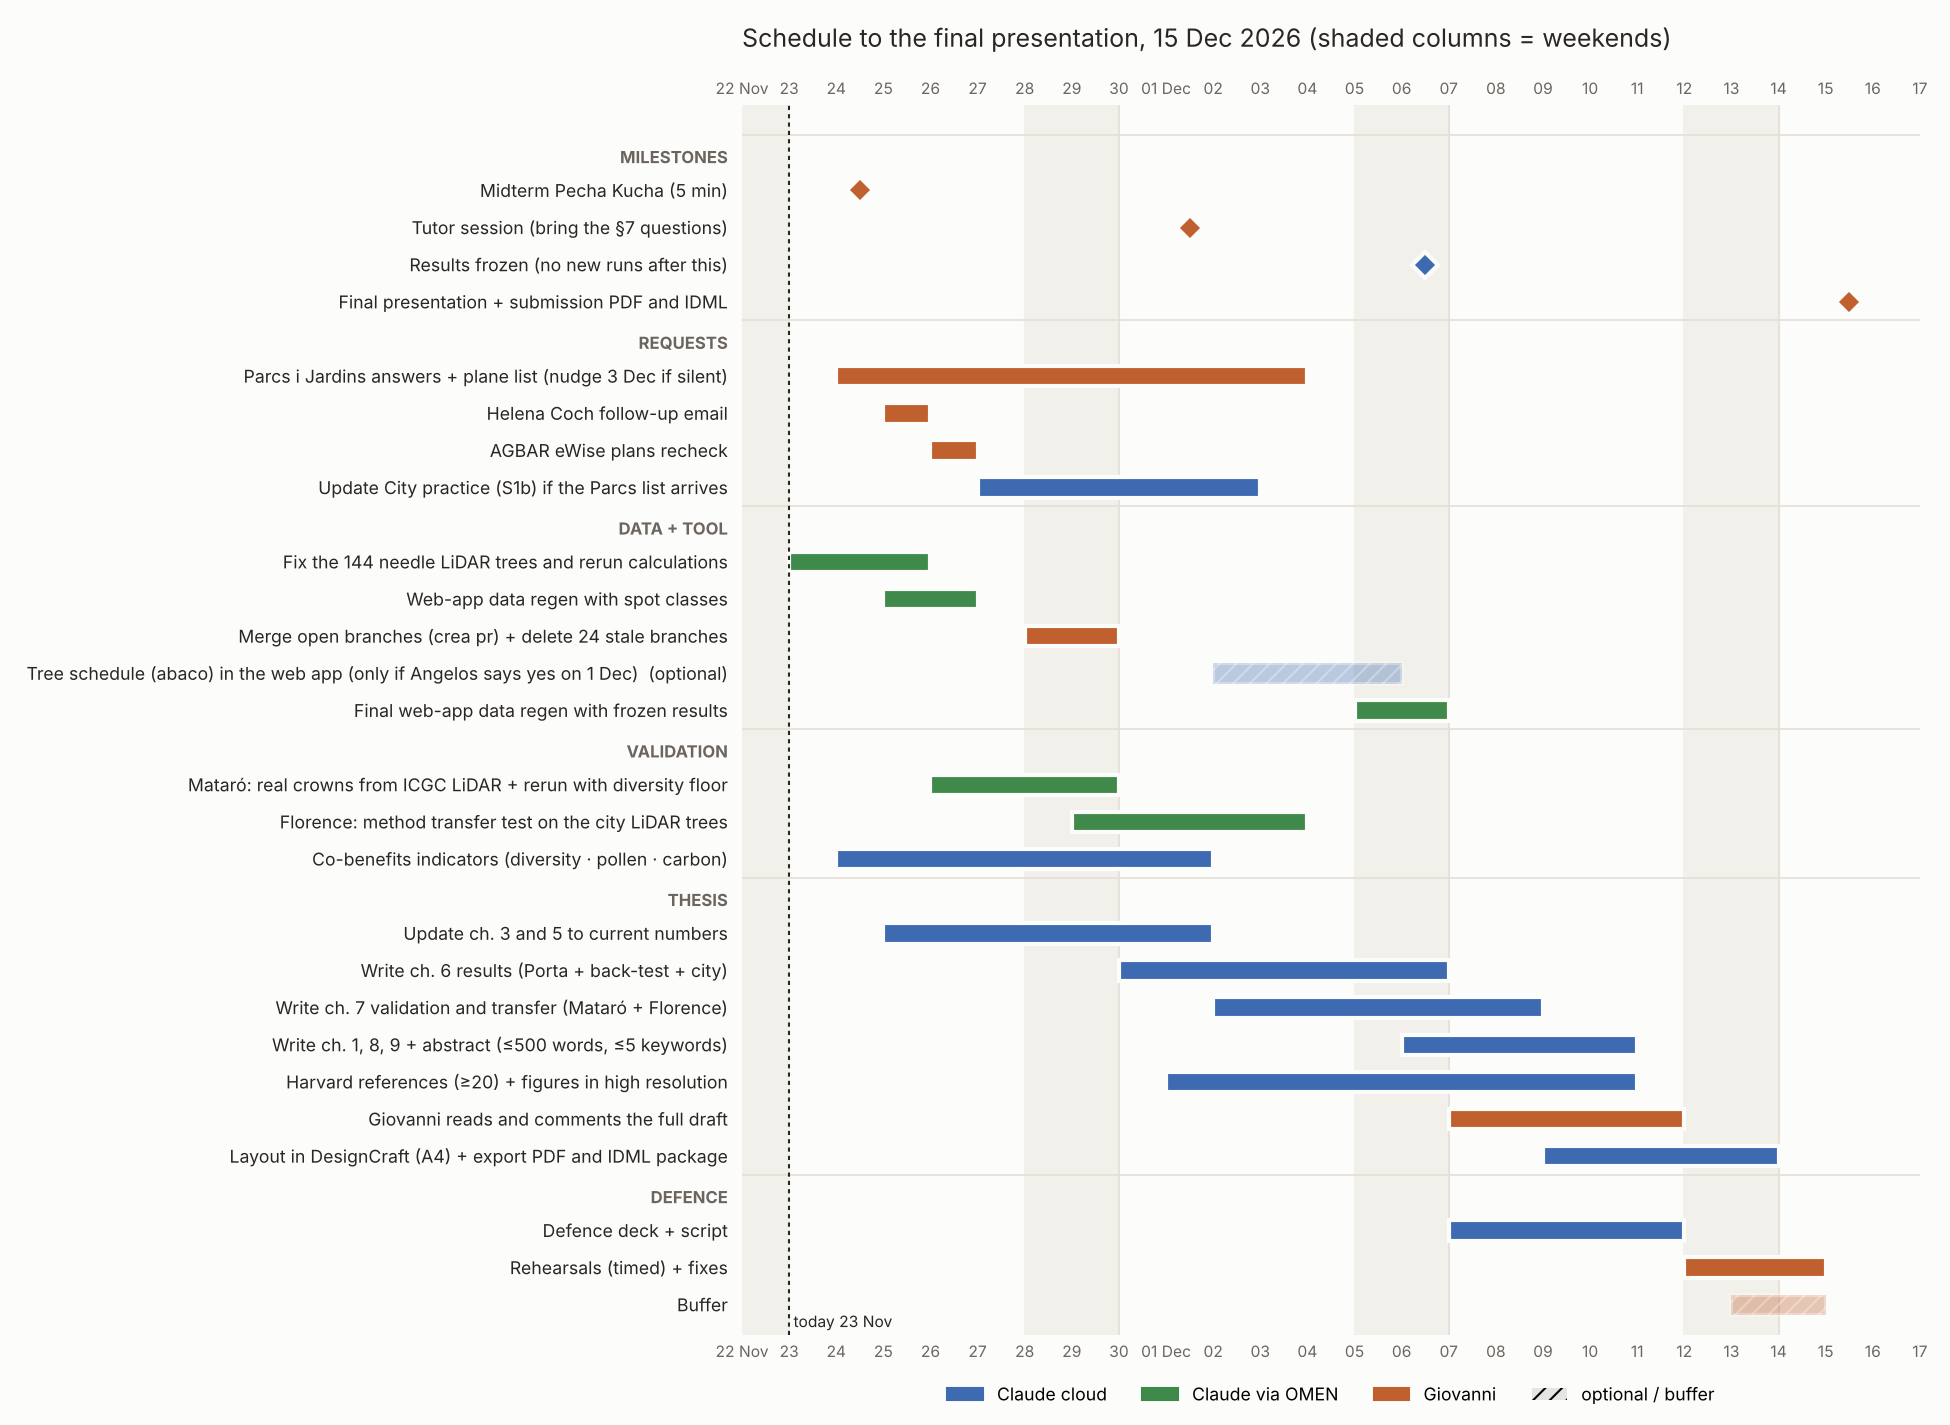
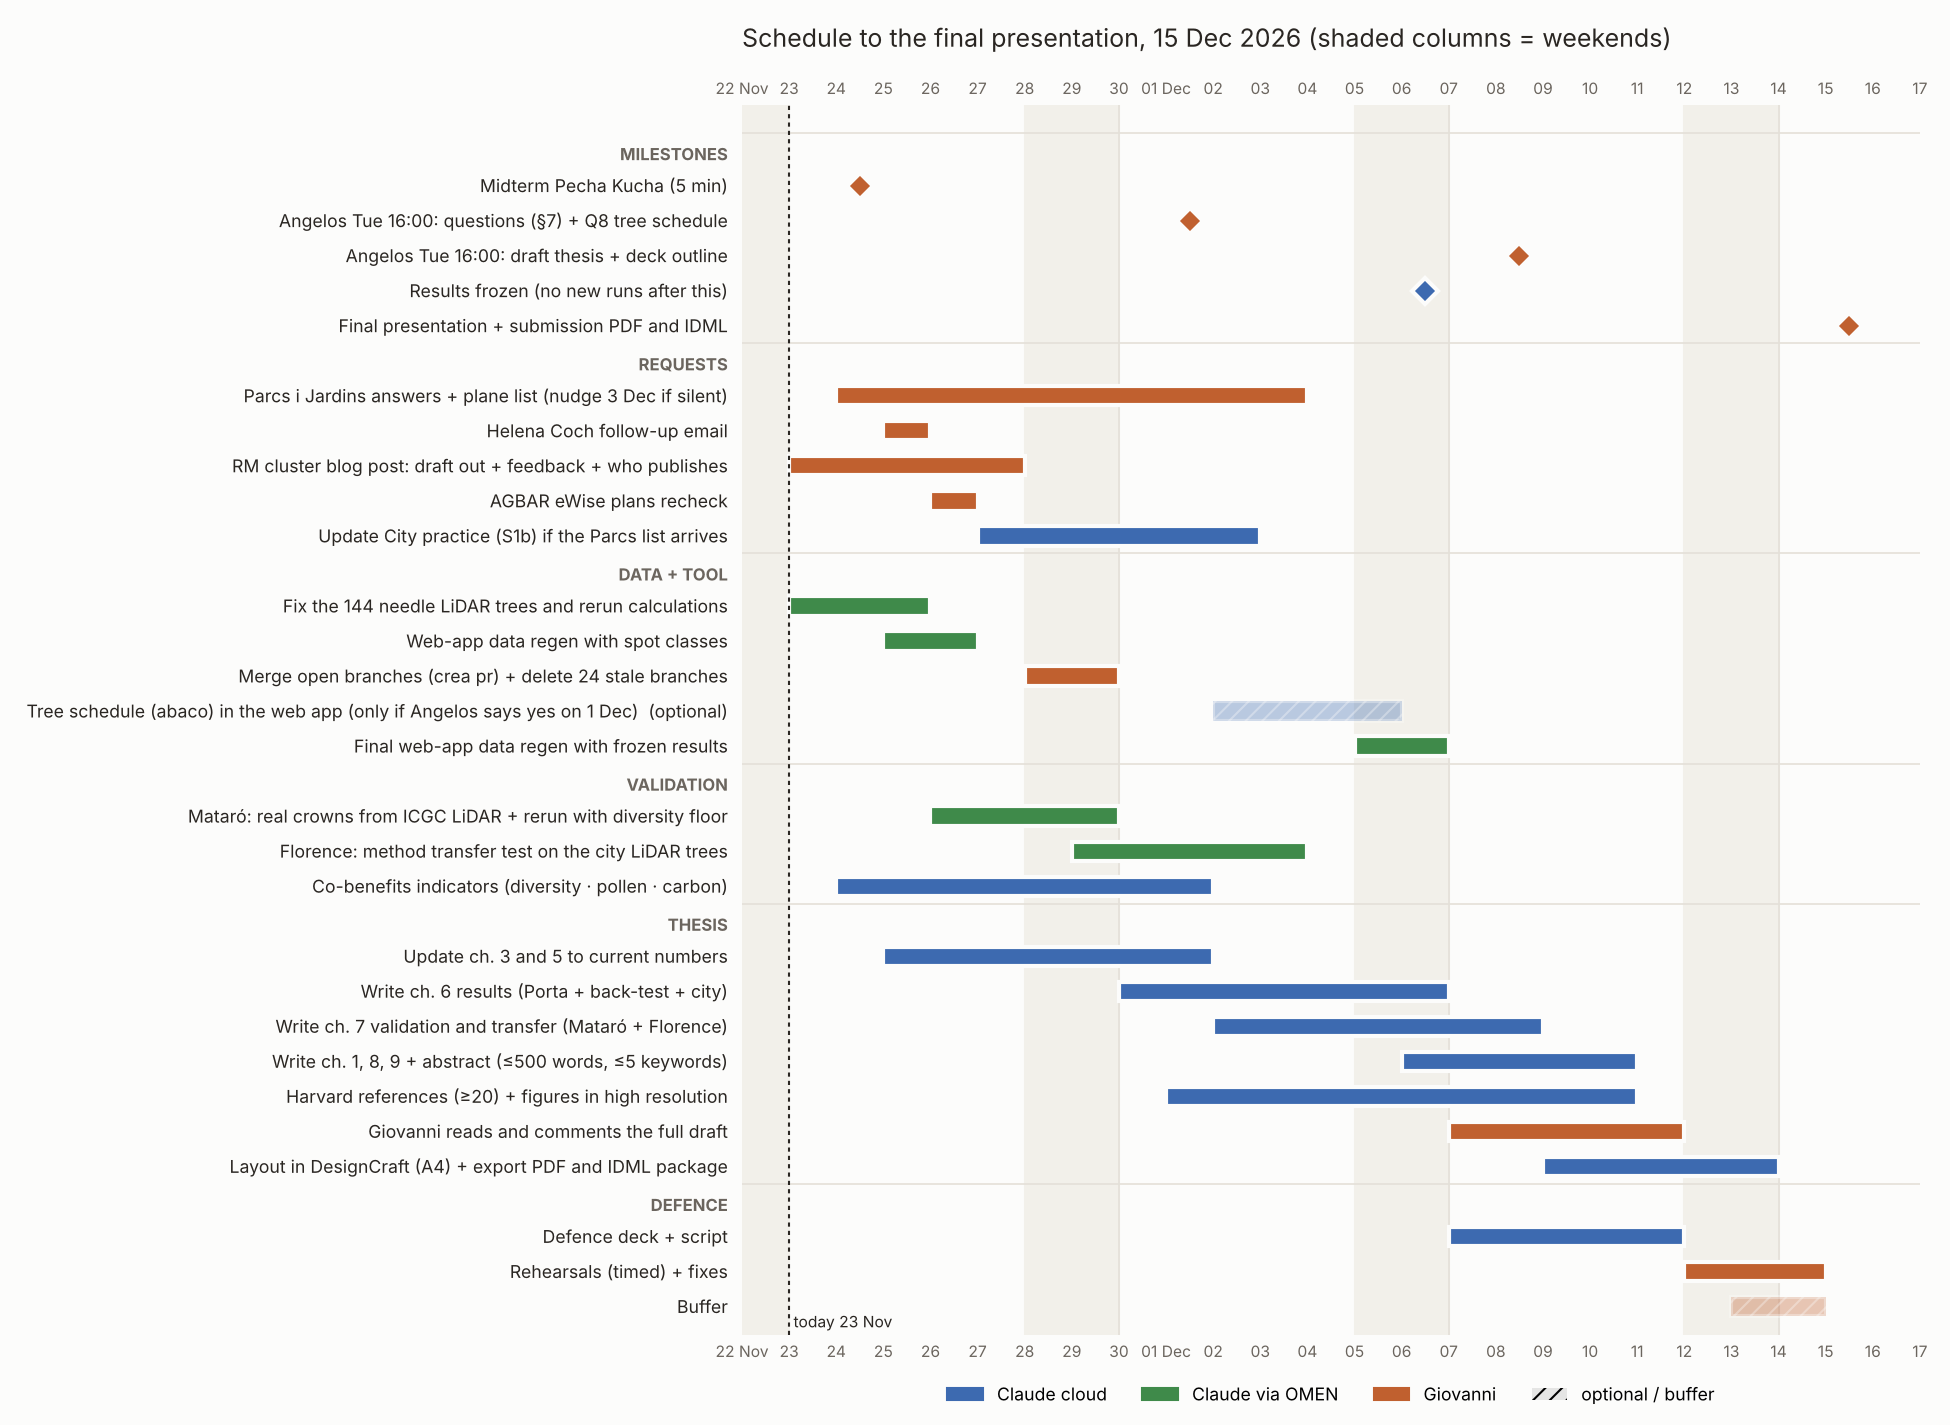
Schedule: Tuesday meetings with Angelos, RM blog post, 15 Dec only deadline
Claude-Session: https://claude.ai/code/session_01He8Hgo5W3x1j2SABPPMyEv

diff --git a/notes/schedule/schedule_to_15dec.md b/notes/schedule/schedule_to_15dec.md
@@ -2,12 +2,13 @@
 
 *Written 23 Nov. Source of truth: `schedule_to_15dec.csv` (edit it, then `python make_gantt.py schedule_to_15dec.csv gantt_to_15dec.png`). Gantt: `gantt_to_15dec.png`. Supersedes the week plan in `notes/roadmap_nov_dec.md`.*
 
-**Rules of the plan.** Giovanni's weekday mornings = one prompt each, results ready by 14:00. OMEN tasks need the PC on (afternoons/evenings). **Results frozen on Sun 6 Dec**: after that only writing, layout and deck. Thesis PDF + InDesign package (IDML, fonts, HR images) are submitted on 15 Dec, the day of the presentation.
+**Rules of the plan.** Giovanni's weekday mornings = one prompt each, results ready by 14:00. OMEN tasks need the PC on (afternoons/evenings). **Results frozen on Sun 6 Dec**: after that only writing, layout and deck. Thesis PDF + InDesign package (IDML, fonts, HR images) are submitted on 15 Dec, the day of the presentation: **the only fixed deadline** (RT and RM are closed). Angelos meets every **Tuesday at 16:00** (some may be skipped).
 
 ## Week 1 · 23–29 Nov · Midterm, data fixes, transfer tests
 - [ ] Mon 23 – Tue 24 · Rehearse the Pecha Kucha (Giovanni)
 - [ ] **Tue 24 · Midterm Pecha Kucha (5 min)**
 - [ ] Tue 24 · Parcs i Jardins answers + plane replacement list expected (Coloma Rull) → if they arrive, update City practice (S1b)
+- [ ] 23–27 · RM cluster blog post (no deadline, do it now): Giovanni sends the draft, collects the cluster's feedback, agree who publishes
 - [ ] Wed 25 · Helena Coch (UPC) follow-up email (Giovanni)
 - [ ] Thu 26 · AGBAR eWise plans recheck (Giovanni)
 - [ ] 23–25 · OMEN: fix segmentation of the 144 "needle" LiDAR trees, rerun calculations (thread "Sviluppare il tool")
@@ -19,7 +20,7 @@
 
 ## Week 2 · 30 Nov – 6 Dec · Florence, results, freeze
 - [ ] 29 Nov – 3 Dec · OMEN: Florence method transfer test on the city LiDAR trees
-- [ ] **Tue 1 Dec · Tutor session**: bring the questions in `notes/tutor_feedback_17nov.md` §7, especially Q8 (tree schedule: now or future work?)
+- [ ] **Tue 1 Dec 16:00 · Angelos**: bring the questions in `notes/tutor_feedback_17nov.md` §7, especially Q8 (tree schedule: now or future work?)
 - [ ] 2–5 · *Optional* tree schedule (abaco) in the web app, only if the tutor says yes
 - [ ] Thu 3 · Nudge Parcs i Jardins if still silent
 - [ ] 30 Nov – 6 Dec · Thesis ch. 6 results (Porta, back-test, city)
@@ -28,6 +29,7 @@
 - [ ] **Sun 6 Dec · Results frozen**
 
 ## Week 3 · 7–13 Dec · Write, lay out, build the deck
+- [ ] **Tue 8 Dec 16:00 · Angelos**: bring the draft thesis and the deck outline (questions, not slides)
 - [ ] 2–8 · Thesis ch. 7 validation and transfer (Mataró + Florence)
 - [ ] 6–10 · Thesis ch. 1, 8, 9 + abstract (≤500 words, ≤5 keywords)
 - [ ] 7–11 · Giovanni reads the full draft and comments (afternoons)
